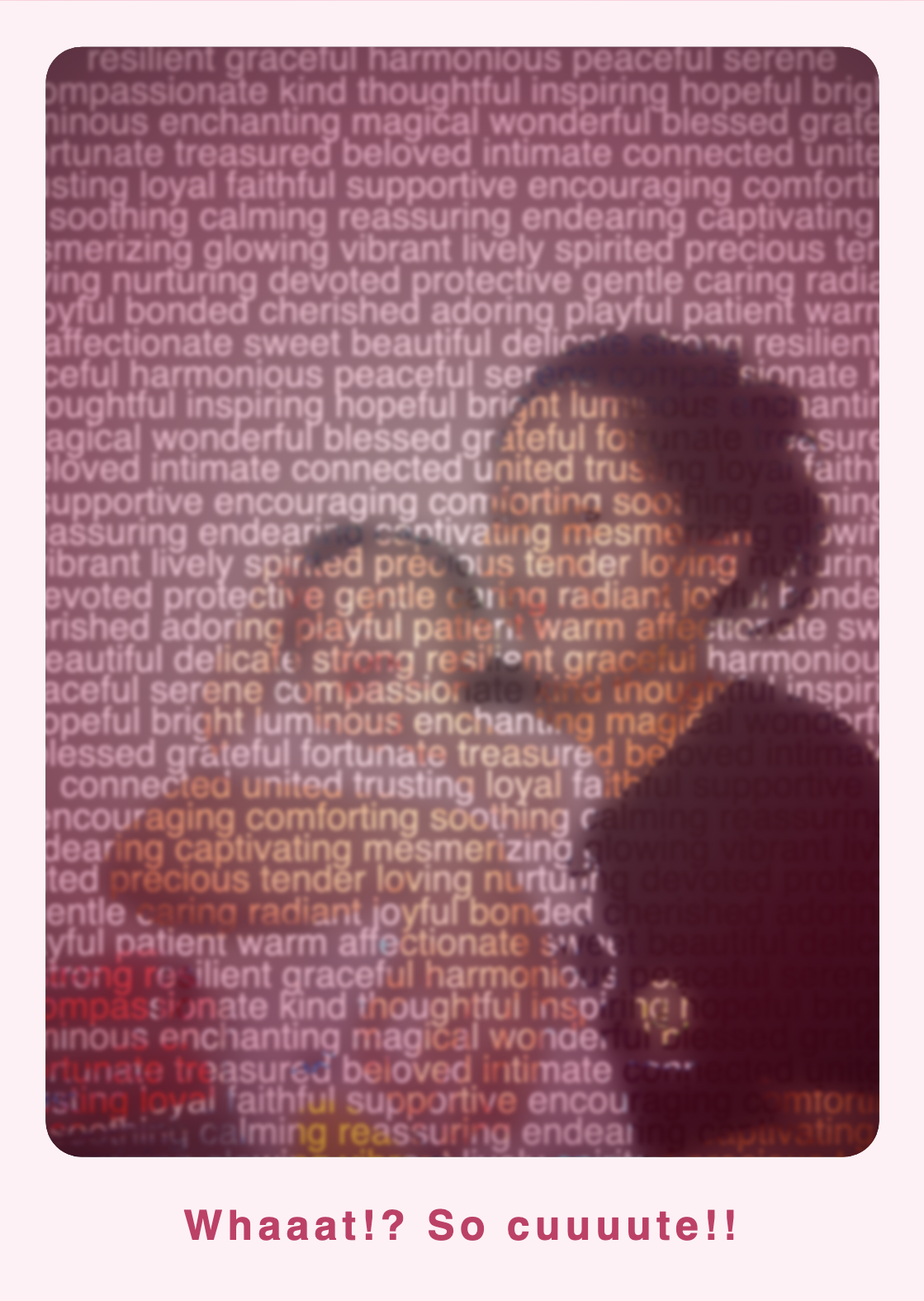
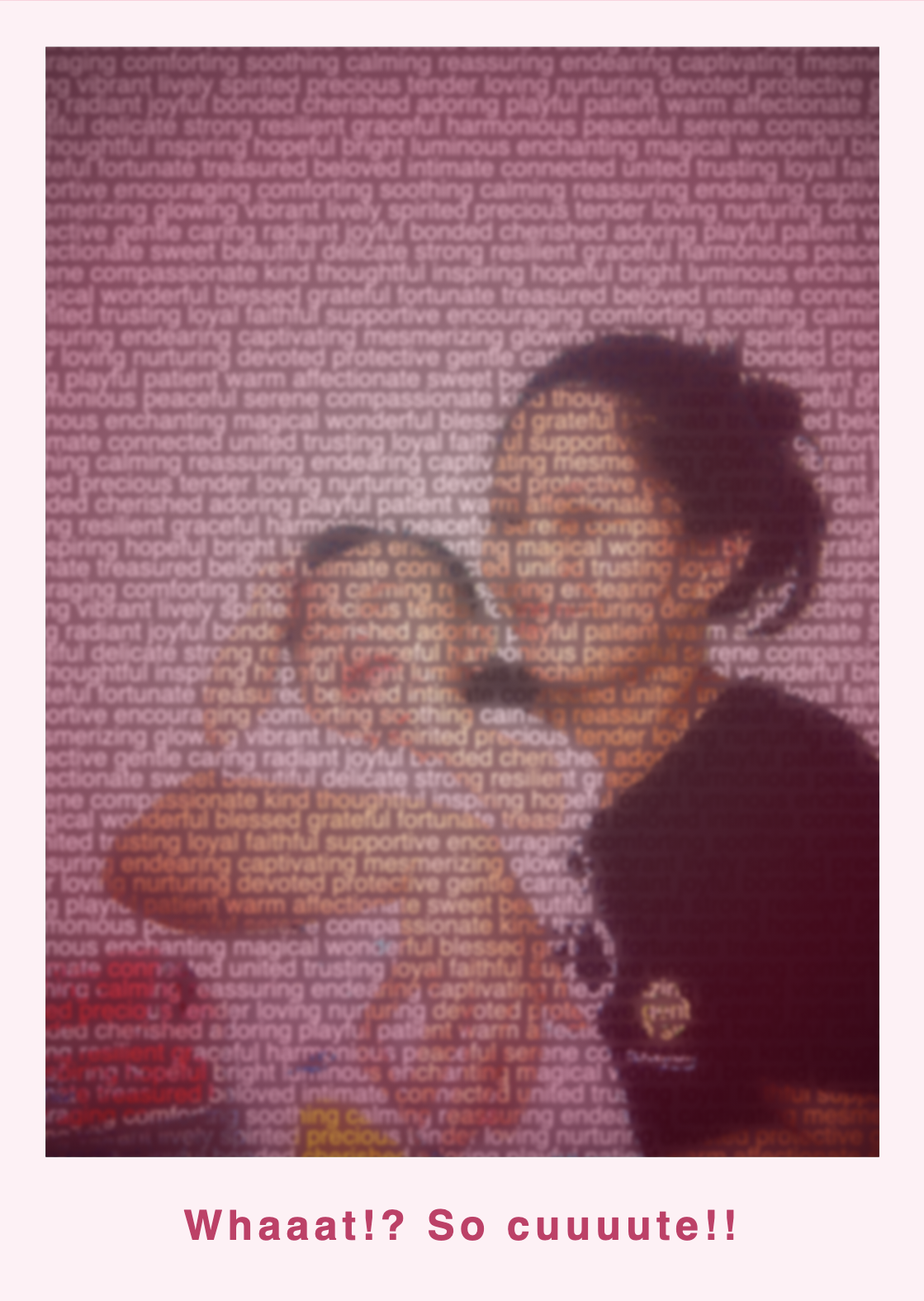
fix borders

diff --git a/portraits/baby/index.html b/portraits/baby/index.html
@@ -53,10 +53,10 @@
   style="margin:0;min-height:100svh;display:flex;align-items:center;justify-content:center;background:radial-gradient(circle at top,#ffdde6,#ffc0cb,#ff9eb5);font-family:'Helvetica',serif;overflow:hidden;">
 
   <section id="postcard" class="postcard"
-    style="display:flex;flex-direction:column;align-items:center;gap:14px;padding:18px;background:#fff0f5;border-radius:18px;animation:glow 4s infinite ease-in-out;">
+    style="display:flex;flex-direction:column;align-items:center;gap:14px;padding:18px;background:#fff0f5;animation:glow 4s infinite ease-in-out;">
 
     <div id="portrait"
-      style="cursor:pointer;position:relative;width:min(84vw,420px);aspect-ratio:3/4;overflow:hidden;border-radius:14px;background:#5c1a2d;">
+      style="cursor:pointer;position:relative;width:min(84vw,420px);aspect-ratio:3/4;overflow:hidden;background:#5c1a2d;">
 
       <a href="postcard.png" download="postcard.png" aria-label="Download postcard" class="download-btn"
         style="position:absolute;right:12px;top:12px;width:42px;height:42px;display:flex;align-items:center;justify-content:center;border-radius:999px;background:rgba(255, 240, 246, 0.9);text-decoration:none;z-index:3;transition:opacity 240ms ease, transform 240ms ease;">
@@ -72,20 +72,20 @@
 
       <div
         id="description"
-        style="scale:1.2;user-select:none;position:absolute;inset:0;font-size:clamp(12px,0.5vw,18px);line-height:0.85;text-align:center;color:transparent;background:url('image.jpeg') center/cover no-repeat;-webkit-background-clip:text;background-clip:text;filter:contrast(1.4) brightness(1.4) blur(0.65px);padding:4px;">
+        style="scale:1.2;user-select:none;position:absolute;inset:0;font-size:clamp(8px,0.3vw,12px);line-height:0.85;text-align:center;color:transparent;background:url('image.jpeg') center/cover no-repeat;-webkit-background-clip:text;background-clip:text;filter:contrast(1.4) brightness(1.4) blur(0.65px);padding:4px;">
         <!-- # Description  -->
-        precious tender loving nurturing devoted protective gentle caring radiant joyful bonded cherished adoring playful patient warm affectionate sweet beautiful delicate strong resilient graceful harmonious peaceful serene compassionate kind thoughtful inspiring hopeful bright luminous enchanting magical wonderful blessed grateful fortunate treasured beloved intimate connected united trusting loyal faithful supportive encouraging comforting soothing calming reassuring endearing captivating mesmerizing glowing vibrant lively spirited precious tender loving nurturing devoted protective gentle caring radiant joyful bonded cherished adoring playful patient warm affectionate sweet beautiful delicate strong resilient graceful harmonious peaceful serene compassionate kind thoughtful inspiring hopeful bright luminous enchanting magical wonderful blessed grateful fortunate treasured beloved intimate connected united trusting loyal faithful supportive encouraging comforting soothing calming reassuring endearing captivating mesmerizing glowing vibrant lively spirited precious tender loving nurturing devoted protective gentle caring radiant joyful bonded cherished adoring playful patient warm affectionate sweet beautiful delicate strong resilient graceful harmonious peaceful serene compassionate kind thoughtful inspiring hopeful bright luminous enchanting magical wonderful blessed grateful fortunate treasured beloved intimate connected united trusting loyal faithful supportive encouraging comforting soothing calming reassuring endearing captivating mesmerizing glowing vibrant lively spirited precious tender loving nurturing devoted protective gentle caring radiant joyful bonded cherished adoring playful patient warm affectionate sweet beautiful delicate strong resilient graceful harmonious peaceful serene compassionate kind thoughtful inspiring hopeful bright luminous enchanting magical wonderful blessed grateful fortunate treasured beloved intimate connected united trusting loyal faithful supportive encouraging comforting soothing calming reassuring endearing captivating mesmerizing glowing vibrant lively spirited precious tender loving nurturing devoted protective gentle caring radiant joyful bonded cherished adoring playful patient warm affectionate sweet beautiful delicate strong resilient graceful harmonious peaceful serene compassionate kind thoughtful inspiring hopeful bright luminous enchanting magical wonderful blessed grateful fortunate treasured beloved intimate connected united trusting loyal faithful supportive encouraging comforting soothing calming reassuring endearing captivating mesmerizing glowing vibrant lively spirited precious tender loving nurturing devoted protective gentle caring radiant joyful bonded cherished adoring playful patient warm affectionate sweet beautiful delicate strong resilient graceful harmonious peaceful serene compassionate kind thoughtful inspiring hopeful bright luminous enchanting magical wonderful blessed grateful fortunate treasured beloved intimate connected united trusting loyal faithful supportive encouraging comforting soothing calming reassuring endearing captivating mesmerizing glowing vibrant lively spirited precious tender loving nurturing devoted protective gentle caring radiant joyful bonded cherished adoring playful patient warm affectionate sweet beautiful delicate strong resilient graceful harmonious peaceful serene compassionate kind thoughtful inspiring hopeful bright luminous enchanting magical wonderful blessed grateful fortunate treasured beloved intimate connected united trusting loyal faithful supportive encouraging comforting soothing calming reassuring endearing captivating mesmerizing glowing vibrant lively spirited precious tender loving nurturing devoted protective gentle caring radiant joyful bonded cherished adoring playful patient warm affectionate sweet beautiful delicate strong resilient graceful harmonious peaceful serene compassionate kind thoughtful inspiring hopeful bright luminous enchanting magical wonderful blessed grateful fortunate treasured beloved intimate connected united trusting loyal faithful supportive encouraging comforting soothing calming reassuring endearing captivating mesmerizing glowing vibrant lively spirited
+        precious tender loving nurturing devoted protective gentle caring radiant joyful bonded cherished adoring playful patient warm affectionate sweet beautiful delicate strong resilient graceful harmonious peaceful serene compassionate kind thoughtful inspiring hopeful bright luminous enchanting magical wonderful blessed grateful fortunate treasured beloved intimate connected united trusting loyal faithful supportive encouraging comforting soothing calming reassuring endearing captivating mesmerizing glowing vibrant lively spirited precious tender loving nurturing devoted protective gentle caring radiant joyful bonded cherished adoring playful patient warm affectionate sweet beautiful delicate strong resilient graceful harmonious peaceful serene compassionate kind thoughtful inspiring hopeful bright luminous enchanting magical wonderful blessed grateful fortunate treasured beloved intimate connected united trusting loyal faithful supportive encouraging comforting soothing calming reassuring endearing captivating mesmerizing glowing vibrant lively spirited precious tender loving nurturing devoted protective gentle caring radiant joyful bonded cherished adoring playful patient warm affectionate sweet beautiful delicate strong resilient graceful harmonious peaceful serene compassionate kind thoughtful inspiring hopeful bright luminous enchanting magical wonderful blessed grateful fortunate treasured beloved intimate connected united trusting loyal faithful supportive encouraging comforting soothing calming reassuring endearing captivating mesmerizing glowing vibrant lively spirited precious tender loving nurturing devoted protective gentle caring radiant joyful bonded cherished adoring playful patient warm affectionate sweet beautiful delicate strong resilient graceful harmonious peaceful serene compassionate kind thoughtful inspiring hopeful bright luminous enchanting magical wonderful blessed grateful fortunate treasured beloved intimate connected united trusting loyal faithful supportive encouraging comforting soothing calming reassuring endearing captivating mesmerizing glowing vibrant lively spirited precious tender loving nurturing devoted protective gentle caring radiant joyful bonded cherished adoring playful patient warm affectionate sweet beautiful delicate strong resilient graceful harmonious peaceful serene compassionate kind thoughtful inspiring hopeful bright luminous enchanting magical wonderful blessed grateful fortunate treasured beloved intimate connected united trusting loyal faithful supportive encouraging comforting soothing calming reassuring endearing captivating mesmerizing glowing vibrant lively spirited precious tender loving nurturing devoted protective gentle caring radiant joyful bonded cherished adoring playful patient warm affectionate sweet beautiful delicate strong resilient graceful harmonious peaceful serene compassionate kind thoughtful inspiring hopeful bright luminous enchanting magical wonderful blessed grateful fortunate treasured beloved intimate connected united trusting loyal faithful supportive encouraging comforting soothing calming reassuring endearing captivating mesmerizing glowing vibrant lively spirited precious tender loving nurturing devoted protective gentle caring radiant joyful bonded cherished adoring playful patient warm affectionate sweet beautiful delicate strong resilient graceful harmonious peaceful serene compassionate kind thoughtful inspiring hopeful bright luminous enchanting magical wonderful blessed grateful fortunate treasured beloved intimate connected united trusting loyal faithful supportive encouraging comforting soothing calming reassuring endearing captivating mesmerizing glowing vibrant lively spirited precious tender loving nurturing devoted protective gentle caring radiant joyful bonded cherished adoring playful patient warm affectionate sweet beautiful delicate strong resilient graceful harmonious peaceful serene compassionate kind thoughtful inspiring hopeful bright luminous enchanting magical wonderful blessed grateful fortunate treasured beloved intimate connected united trusting loyal faithful supportive encouraging comforting soothing calming reassuring endearing captivating mesmerizing glowing vibrant lively spirited precious tender loving nurturing devoted protective gentle caring radiant joyful bonded cherished adoring playful patient warm affectionate sweet beautiful delicate strong resilient graceful harmonious peaceful serene compassionate kind thoughtful inspiring hopeful bright luminous enchanting magical wonderful blessed grateful fortunate treasured beloved intimate connected united trusting loyal faithful supportive encouraging comforting soothing calming reassuring endearing captivating mesmerizing glowing vibrant lively spirited precious tender loving nurturing devoted protective gentle caring radiant joyful bonded cherished adoring playful patient warm affectionate sweet beautiful delicate strong resilient graceful harmonious peaceful serene compassionate kind thoughtful inspiring hopeful bright luminous enchanting magical wonderful blessed grateful fortunate treasured beloved intimate connected united trusting loyal faithful supportive encouraging comforting soothing calming reassuring endearing captivating mesmerizing glowing vibrant lively spirited precious tender loving nurturing devoted protective gentle caring radiant joyful bonded cherished adoring playful patient warm affectionate sweet beautiful delicate strong resilient graceful harmonious peaceful serene compassionate kind thoughtful inspiring hopeful bright luminous enchanting magical wonderful blessed grateful fortunate treasured beloved intimate connected united trusting loyal faithful supportive encouraging comforting soothing calming reassuring endearing captivating mesmerizing glowing vibrant lively spirited precious tender loving nurturing devoted protective gentle caring radiant joyful bonded cherished adoring playful patient warm affectionate sweet beautiful delicate strong resilient graceful harmonious peaceful serene compassionate kind thoughtful inspiring hopeful bright luminous enchanting magical wonderful blessed grateful fortunate treasured beloved intimate connected united trusting loyal faithful supportive encouraging comforting soothing calming reassuring endearing captivating mesmerizing glowing vibrant lively spirited precious tender loving nurturing devoted protective gentle caring radiant joyful bonded cherished adoring playful patient warm affectionate sweet beautiful delicate strong resilient graceful harmonious peaceful serene compassionate kind thoughtful inspiring hopeful bright luminous enchanting magical wonderful blessed grateful fortunate treasured beloved intimate connected united trusting loyal faithful supportive encouraging comforting soothing calming reassuring endearing captivating mesmerizing glowing vibrant lively spirited precious tender loving nurturing devoted protective gentle caring radiant joyful bonded cherished adoring playful patient warm affectionate sweet beautiful delicate strong resilient graceful harmonious peaceful serene compassionate kind thoughtful inspiring hopeful bright luminous enchanting magical wonderful blessed grateful fortunate treasured beloved intimate connected united trusting loyal faithful supportive encouraging comforting soothing calming reassuring endearing captivating mesmerizing glowing vibrant lively spirited precious tender loving nurturing devoted protective gentle caring radiant joyful bonded cherished adoring playful patient warm affectionate sweet beautiful delicate strong resilient graceful harmonious peaceful serene compassionate kind thoughtful inspiring hopeful bright luminous enchanting magical wonderful blessed grateful fortunate treasured beloved intimate connected united trusting loyal faithful supportive encouraging comforting soothing calming reassuring endearing captivating mesmerizing glowing vibrant lively spirited precious tender loving nurturing devoted protective gentle caring radiant joyful bonded cherished adoring playful patient warm affectionate sweet beautiful delicate strong resilient graceful harmonious peaceful serene compassionate kind thoughtful inspiring hopeful bright luminous enchanting magical wonderful blessed grateful fortunate treasured beloved intimate connected united trusting loyal faithful supportive encouraging comforting soothing calming reassuring endearing captivating mesmerizing glowing vibrant lively spirited precious tender loving nurturing devoted protective gentle caring radiant joyful bonded cherished adoring playful patient warm affectionate sweet beautiful delicate strong resilient graceful harmonious peaceful serene compassionate kind thoughtful inspiring hopeful bright luminous enchanting magical wonderful blessed grateful fortunate treasured beloved intimate connected united trusting loyal faithful supportive encouraging comforting soothing calming reassuring endearing captivating mesmerizing glowing vibrant lively spirited precious tender loving nurturing devoted protective gentle caring radiant joyful bonded cherished adoring playful patient warm affectionate sweet beautiful delicate strong resilient graceful harmonious peaceful serene compassionate kind thoughtful inspiring hopeful bright luminous enchanting magical wonderful blessed grateful fortunate treasured beloved intimate connected united trusting loyal faithful supportive encouraging comforting soothing calming reassuring endearing captivating mesmerizing glowing vibrant lively spirited precious tender loving nurturing devoted protective gentle caring radiant joyful bonded cherished adoring playful patient warm affectionate sweet beautiful delicate strong resilient graceful harmonious peaceful serene compassionate kind thoughtful inspiring hopeful bright luminous enchanting magical wonderful blessed grateful fortunate treasured beloved intimate connected united trusting loyal faithful supportive encouraging comforting soothing calming reassuring endearing captivating mesmerizing glowing vibrant lively spirited precious tender loving nurturing devoted protective gentle caring radiant joyful bonded cherished adoring playful patient warm affectionate sweet beautiful delicate strong resilient graceful harmonious peaceful serene compassionate kind thoughtful inspiring hopeful bright luminous enchanting magical wonderful blessed grateful fortunate treasured beloved intimate connected united trusting loyal faithful supportive encouraging comforting soothing calming reassuring endearing captivating mesmerizing glowing vibrant lively spirited
       </div>
 
       <div class="letter"
-        style="display:flex;align-items:center;position:absolute;inset:10px;padding:32px;border-radius:12px;background:rgba(255, 240, 246, 0.94);color:#7a1b3b;font-size:clamp(18px, 1.2vw, 26px);line-height:1.6;text-align:left;letter-spacing:0.2px;font-family:'Snell Roundhand','Brush Script MT','Lucida Handwriting','Georgia',serif;opacity:0;transform:translateY(6px);transition:opacity 200ms ease, transform 200ms ease;pointer-events:auto;z-index:2;"
+        style="display:flex;align-items:center;position:absolute;inset:10px;padding:32px;border-radius:12px;background:rgba(255, 240, 246, 0.94);color:#7a1b3b;font-size:clamp(18px, 2vw, 26px);line-height:1.6;text-align:left;letter-spacing:0.2px;font-family:'Snell Roundhand','Brush Script MT','Lucida Handwriting','Georgia',serif;opacity:0;transform:translateY(6px);transition:opacity 200ms ease, transform 200ms ease;pointer-events:auto;z-index:2;"
         onclick="event.stopPropagation();burstHearts(event);this.style.opacity='0';this.style.transform='translateY(6px)';var toggle=this.parentElement.querySelector('.letter-toggle');toggle.style.opacity='1';toggle.style.transform='scale(1)';var downloadBtn=this.parentElement.querySelector('.download-btn');downloadBtn.style.opacity='1';downloadBtn.style.transform='scale(1)';">
         To Kai & Mommy:
         <br /><br />
         <!-- # Long message -->
         Soft hands, gentle hearts<br/>
-        Two souls dancing through each day<br/>
-        Love in every laugh<br/>
+Two souls dancing through each day<br/>
+Love in every laugh<br/>
       </div>
 
       <div class="letter-toggle"

diff --git a/portraits/lizasoberano/index.html b/portraits/lizasoberano/index.html
@@ -53,10 +53,10 @@
   style="margin:0;min-height:100svh;display:flex;align-items:center;justify-content:center;background:radial-gradient(circle at top,#ffdde6,#ffc0cb,#ff9eb5);font-family:'Helvetica',serif;overflow:hidden;">
 
   <section id="postcard" class="postcard"
-    style="display:flex;flex-direction:column;align-items:center;gap:14px;padding:18px;background:#fff0f5;border-radius:18px;animation:glow 4s infinite ease-in-out;">
+    style="display:flex;flex-direction:column;align-items:center;gap:14px;padding:18px;background:#fff0f5;animation:glow 4s infinite ease-in-out;">
 
     <div id="portrait"
-      style="cursor:pointer;position:relative;width:min(84vw,420px);aspect-ratio:3/4;overflow:hidden;border-radius:14px;background:#5c1a2d;">
+      style="cursor:pointer;position:relative;width:min(84vw,420px);aspect-ratio:3/4;overflow:hidden;background:#5c1a2d;">
 
       <a href="postcard.png" download="postcard.png" aria-label="Download postcard" class="download-btn"
         style="position:absolute;right:12px;top:12px;width:42px;height:42px;display:flex;align-items:center;justify-content:center;border-radius:999px;background:rgba(255, 240, 246, 0.9);text-decoration:none;z-index:3;transition:opacity 240ms ease, transform 240ms ease;">
@@ -72,7 +72,7 @@
 
       <div
         id="description"
-        style="scale:1.2;user-select:none;position:absolute;inset:0;font-size:clamp(12px,0.5vw,18px);line-height:0.85;text-align:center;color:transparent;background:url('image.png') center/cover no-repeat;-webkit-background-clip:text;background-clip:text;filter:contrast(1.4) brightness(1.4) blur(0.65px);padding:4px;">
+        style="scale:1.2;user-select:none;position:absolute;inset:0;font-size:clamp(8px,0.3vw,12px);line-height:0.85;text-align:center;color:transparent;background:url('image.png') center/cover no-repeat;-webkit-background-clip:text;background-clip:text;filter:contrast(1.4) brightness(1.4) blur(0.65px);padding:4px;">
         <!-- # Description  -->
         radiant grace elegant luminous captivating enchanting gentle fierce compassionate resilient nurturing strong vibrant wise tender magnetic alluring confident poised sophisticated serene passionate brilliant charming delicate powerful warm thoughtful kind mesmerizing refined bold beautiful striking vivid inspiring authentic spirited expressive glowing soft courageous determined graceful dreamy artistic creative joyful humble dazzling mysterious genuine caring adventurous playful dignified ethereal fierce harmonious intuitive lively passionate radiant sensitive timeless witty captivating devoted elegant fearless generous hopeful independent loyal magnetic nurturing optimistic patient radiant resilient sophisticated spirited steadfast tender thoughtful understanding vibrant warm welcoming wise wonderful youthful zealous affectionate brave celestial devoted elegant faithful gracious harmonious inspiring kind loving majestic radiant grace elegant luminous captivating enchanting gentle fierce compassionate resilient nurturing strong vibrant wise tender magnetic alluring confident poised sophisticated serene passionate brilliant charming delicate powerful warm thoughtful kind mesmerizing refined bold beautiful striking vivid inspiring authentic spirited expressive glowing soft courageous determined graceful dreamy artistic creative joyful humble dazzling mysterious genuine caring adventurous playful dignified ethereal fierce harmonious intuitive lively passionate radiant sensitive timeless witty captivating devoted elegant fearless generous hopeful independent loyal magnetic nurturing optimistic patient radiant resilient sophisticated spirited steadfast tender thoughtful understanding vibrant warm welcoming wise wonderful youthful zealous affectionate brave celestial devoted elegant faithful gracious harmonious inspiring kind loving majestic radiant grace elegant luminous captivating enchanting gentle fierce compassionate resilient nurturing strong vibrant wise tender magnetic alluring confident poised sophisticated serene passionate brilliant charming delicate powerful warm thoughtful kind mesmerizing refined bold beautiful striking vivid inspiring authentic spirited expressive glowing soft courageous determined graceful dreamy artistic creative joyful humble dazzling mysterious genuine caring adventurous playful dignified ethereal fierce harmonious intuitive lively passionate radiant sensitive timeless witty captivating devoted elegant fearless generous hopeful independent loyal magnetic nurturing optimistic patient radiant resilient sophisticated spirited steadfast tender thoughtful understanding vibrant warm welcoming wise wonderful youthful zealous affectionate brave celestial devoted elegant faithful gracious harmonious inspiring kind loving majestic radiant grace elegant luminous captivating enchanting gentle fierce compassionate resilient nurturing strong vibrant wise tender magnetic alluring confident poised sophisticated serene passionate brilliant charming delicate powerful warm thoughtful kind mesmerizing refined bold beautiful striking vivid inspiring authentic spirited expressive glowing soft courageous determined graceful dreamy artistic creative joyful humble dazzling mysterious genuine caring adventurous playful dignified ethereal fierce harmonious intuitive lively passionate radiant sensitive timeless witty captivating devoted elegant fearless generous hopeful independent loyal magnetic nurturing optimistic patient radiant resilient sophisticated spirited steadfast tender thoughtful understanding vibrant warm welcoming wise wonderful youthful zealous affectionate brave celestial devoted elegant faithful gracious harmonious inspiring kind loving majestic radiant grace elegant luminous captivating enchanting gentle fierce compassionate resilient nurturing strong vibrant wise tender magnetic alluring confident poised sophisticated serene passionate brilliant charming delicate powerful warm thoughtful kind mesmerizing refined bold beautiful striking vivid inspiring authentic spirited expressive glowing soft courageous determined graceful dreamy artistic creative joyful humble dazzling mysterious genuine caring adventurous playful dignified ethereal fierce harmonious intuitive lively passionate radiant sensitive timeless witty captivating devoted elegant fearless generous hopeful independent loyal magnetic nurturing optimistic patient radiant resilient sophisticated spirited steadfast tender thoughtful understanding vibrant warm welcoming wise wonderful youthful zealous affectionate brave celestial devoted elegant faithful gracious harmonious inspiring kind loving majestic radiant grace elegant luminous captivating enchanting gentle fierce compassionate resilient nurturing strong vibrant wise tender magnetic alluring confident poised sophisticated serene passionate brilliant charming delicate powerful warm thoughtful kind mesmerizing refined bold beautiful striking vivid inspiring authentic spirited expressive glowing soft courageous determined graceful dreamy artistic creative joyful humble dazzling mysterious genuine caring adventurous playful dignified ethereal fierce harmonious intuitive lively passionate radiant sensitive timeless witty captivating devoted elegant fearless generous hopeful independent loyal magnetic nurturing optimistic patient radiant resilient sophisticated spirited steadfast tender thoughtful understanding vibrant warm welcoming wise wonderful youthful zealous affectionate brave celestial devoted elegant faithful gracious harmonious inspiring kind loving majestic
       </div>

diff --git a/generatepostcard.py b/generatepostcard.py
@@ -13,7 +13,7 @@ POSTCARD_WIDTH_IN = 4
 POSTCARD_HEIGHT_IN = 6
 CSS_DPI = 96
 OUTPUT_DPI = 300
-POSTCARD_TEXT_FONT = "clamp(8px, 0.5vw, 14px)"
+POSTCARD_TEXT_FONT = "clamp(8px, 0.3vw, 14px)"
 
 
 async def save_postcard_as_png(page, html_file: Path, selector: str, output_file: Path) -> None:

diff --git a/files/baby/message.md b/files/baby/message.md
@@ -9,6 +9,6 @@ Soft hands, gentle hearts<br/>
 Two souls dancing through each day<br/>
 Love in every laugh<br/>
 # Loop
-10 Times
+20 Times
 # Theme
 valentines
